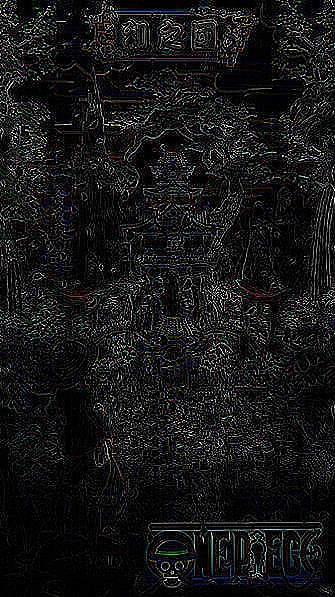
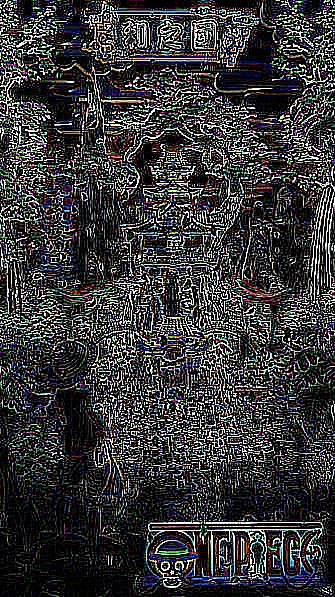
Image resize feature(both upscaling and downscaling) created

diff --git a/frontend_eikona/index.html b/frontend_eikona/index.html
@@ -109,7 +109,7 @@
               Median Filtering
             </div>
             <div class="border-2 border-black rounded-md p-18 mb-9 bg-[#3D3838] hover:bg-[#2d2928] hover:text-white cursor-pointer text-center">
-              gaussian smoothing
+              Gaussian smoothing
             </div>
             <div class="border-2 border-black rounded-md p-18 mb-9 bg-[#3D3838] hover:bg-[#2d2928] hover:text-white cursor-pointer text-center">
               Laplacian Sharpening

diff --git a/backend_eikona/app/main.py b/backend_eikona/app/main.py
@@ -2,18 +2,25 @@ import cv2
 
 
 image = cv2.imread('luffy.jpeg')
-
+width_d = int(image.shape[1] *0.5)
+height_d = int(image.shape[0] *0.5)
+image_rd = cv2.resize(image, (width_d, height_d))
+cv2.imwrite('luffy_resizedDownscaled.jpg', image_rd)
+width_d = int(image.shape[1] *2)
+height_d = int(image.shape[0] *2)
+image_ru = cv2.resize(image, (width_d, height_d))
+cv2.imwrite('luffy_resizedUpscaled.jpg', image_ru)
 
 gray = cv2.cvtColor(image, cv2.COLOR_BGR2GRAY)
 gaussian_filter = cv2.GaussianBlur(image, (5, 5), 0)
 mean_filter=cv2.boxFilter(image, -1, (5, 5))
 median_filter=cv2.medianBlur(image, 5)
-laplacian_filter=cv2.Laplacian(image, cv2.CV_64F)
+laplacian_filter=cv2.Laplacian(image, cv2.CV_64F,ksize=3)
 edges = cv2.Canny(gray, 100, 200)
 
-cv2.imwrite('edges.jpg', edges)
+"""cv2.imwrite('edges.jpg', edges)
 cv2.imwrite('grayscale.jpg', gray)
 cv2.imwrite('gaussian_color.jpg', gaussian_filter)
 cv2.imwrite('mean_color.jpg', mean_filter)
-cv2.imwrite('median_color.jpg',median_filter)
-cv2.imwrite('Laplacian_color.jpg',laplacian_filter)
+cv2.imwrite('median_color.jpg',median_filter)"""
+#cv2.imwrite('Laplacian_color.jpg',laplacian_filter)
